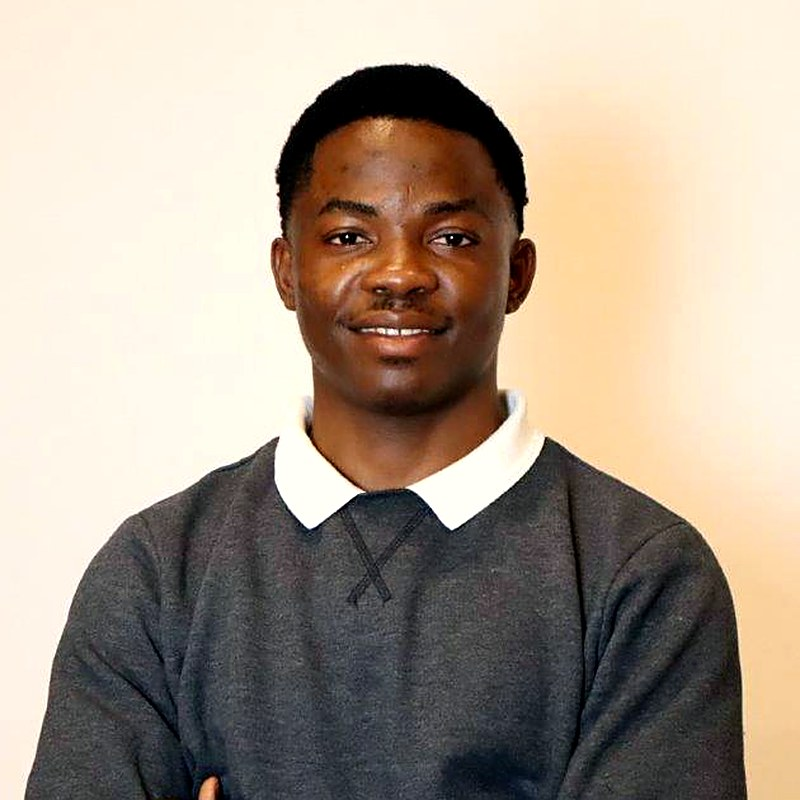
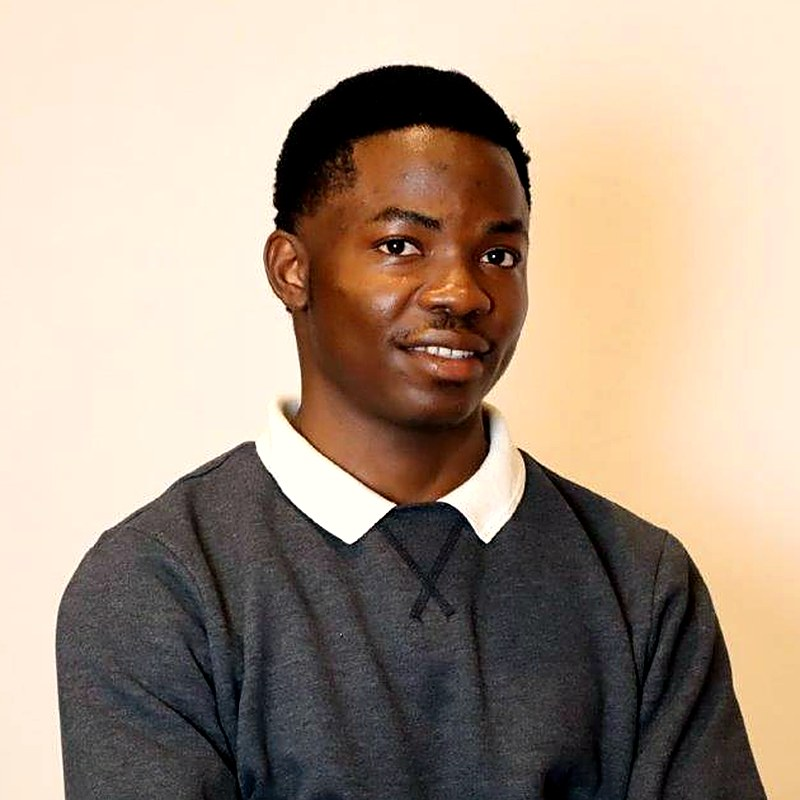
Mode nuit moka / taupe et nouvelle photo

diff --git a/assets/style.css b/assets/style.css
@@ -16,39 +16,39 @@
   color-scheme: light;
 }
 
-/* Nuit : tons bruns chauds (café, cuir, caramel) */
+/* Nuit : moka / taupe, accent sable */
 [data-theme="dark"] {
-  --bg: #17110d;
-  --bg-alt: #1d1611;
-  --surface: #241b15;
-  --surface-2: #2e231b;
-  --text: #f3e9df;
-  --muted: #bfa996;
-  --line: #3b2e24;
-  --accent: #d39a62;
-  --accent-2: #e8b98a;
-  --accent-ink: #1d140e;
-  --glow: rgba(211, 154, 98, .20);
-  --shadow: 0 12px 34px rgba(0, 0, 0, .35);
-  --dock: rgba(36, 27, 21, .82);
+  --bg: #3b2f2a;
+  --bg-alt: #352a25;
+  --surface: #4a3b34;
+  --surface-2: #574638;
+  --text: #f7efe6;
+  --muted: #d9c7b6;
+  --line: #614f43;
+  --accent: #e9cfa8;
+  --accent-2: #f4e3c9;
+  --accent-ink: #3b2f2a;
+  --glow: rgba(233, 207, 168, .18);
+  --shadow: 0 12px 34px rgba(20, 12, 8, .28);
+  --dock: rgba(74, 59, 52, .85);
   color-scheme: dark;
 }
 
 @media (prefers-color-scheme: dark) {
   :root:not([data-theme="light"]) {
-    --bg: #17110d;
-    --bg-alt: #1d1611;
-    --surface: #241b15;
-    --surface-2: #2e231b;
-    --text: #f3e9df;
-    --muted: #bfa996;
-    --line: #3b2e24;
-    --accent: #d39a62;
-    --accent-2: #e8b98a;
-    --accent-ink: #1d140e;
-    --glow: rgba(211, 154, 98, .20);
-    --shadow: 0 12px 34px rgba(0, 0, 0, .35);
-    --dock: rgba(36, 27, 21, .82);
+    --bg: #3b2f2a;
+    --bg-alt: #352a25;
+    --surface: #4a3b34;
+    --surface-2: #574638;
+    --text: #f7efe6;
+    --muted: #d9c7b6;
+    --line: #614f43;
+    --accent: #e9cfa8;
+    --accent-2: #f4e3c9;
+    --accent-ink: #3b2f2a;
+    --glow: rgba(233, 207, 168, .18);
+    --shadow: 0 12px 34px rgba(20, 12, 8, .28);
+    --dock: rgba(74, 59, 52, .85);
     color-scheme: dark;
   }
 }
